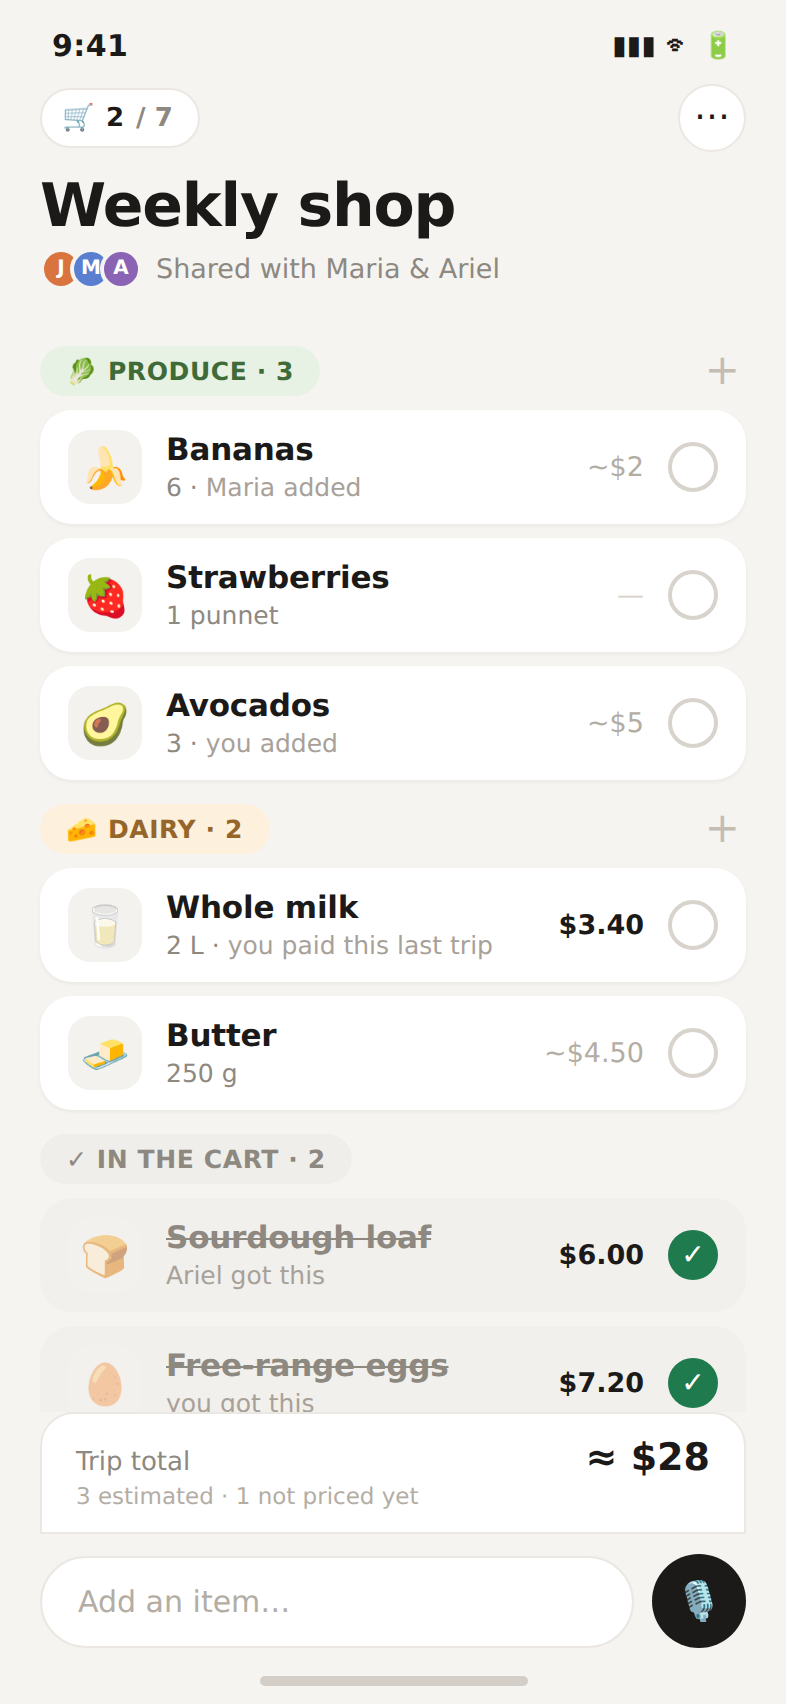
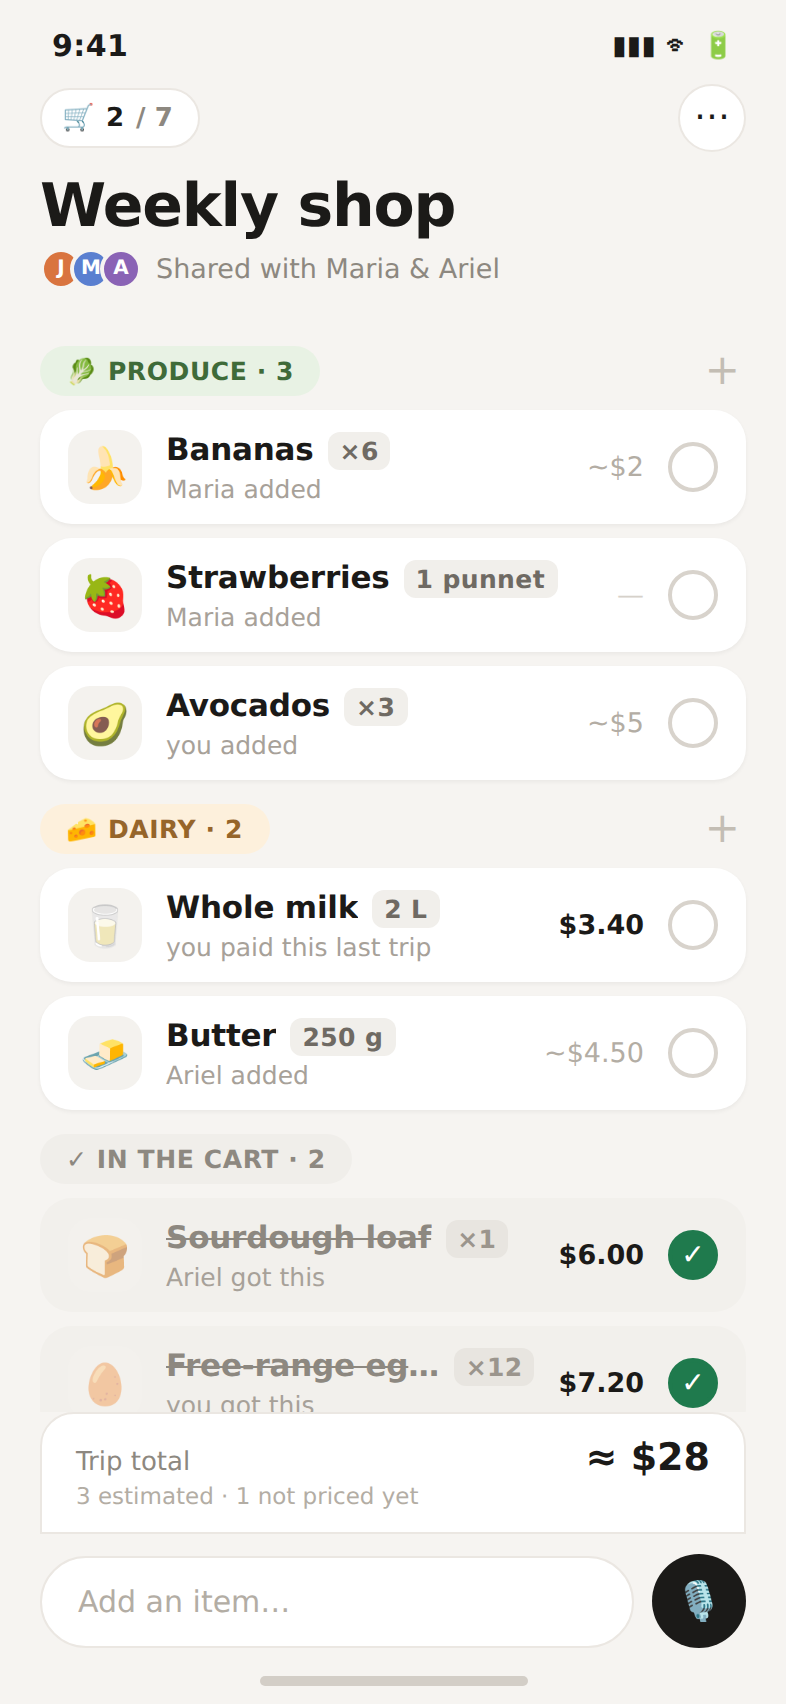
Promote quantity from metadata to the item name line
Quantity was sharing the grey subtitle with attribution, which put an
operational value (how many to pick up) at the same weight as a social one.
Move it to a chip on the name line, leaving attribution alone in the
subtitle, and keep the strikethrough on checked rows off the chip.

Claude-Session: https://claude.ai/code/session_01A8rNZTtwV3z7PEHs5sXCz9

diff --git a/design/mockups/list-screen.html b/design/mockups/list-screen.html
@@ -81,7 +81,14 @@
     display: grid; place-items: center; font-size: 20px; background: #f4f2ee;
   }
   .body { flex: 1; min-width: 0; }
-  .name { font-size: 15.5px; font-weight: 550; letter-spacing: -.1px; }
+  .name { font-size: 15.5px; font-weight: 550; letter-spacing: -.1px;
+    display: flex; align-items: baseline; gap: 7px; white-space: nowrap; }
+  .name .txt { overflow: hidden; text-overflow: ellipsis; min-width: 0; }
+  .qty {
+    font-size: 12.5px; font-weight: 650; color: #6f6a63;
+    background: #f1efeb; border-radius: 6px; padding: 2px 6px;
+    letter-spacing: .2px; flex: none;
+  }
   .meta { font-size: 12.5px; color: var(--muted); margin-top: 2px; }
   .meta .who { color: #a7a199; }
   /* estimated price: grey, tilde-prefixed, rounded. confirmed: solid ink. */
@@ -96,7 +103,9 @@
   }
   .circle.on::after { content: "✓"; color: #fff; font-size: 14px; font-weight: 700; }
   .row.checked { background: #f2f0ec; box-shadow: none; }
-  .row.checked .name { color: var(--muted); text-decoration: line-through; }
+  .row.checked .name { color: var(--muted); }
+  .row.checked .name .txt { text-decoration: line-through; }
+  .row.checked .qty { background: #e8e5e0; color: #9b958d; }
   .row.checked .tile { opacity: .5; }
 
   /* footer */
@@ -150,8 +159,8 @@
     <div class="row">
       <div class="tile">🍌</div>
       <div class="body">
-        <div class="name">Bananas</div>
-        <div class="meta">6 · <span class="who">Maria added</span></div>
+        <div class="name"><span class="txt">Bananas</span> <span class="qty">×6</span></div>
+        <div class="meta"><span class="who">Maria added</span></div>
       </div>
       <div class="price est">~$2</div>
       <div class="circle"></div>
@@ -159,8 +168,8 @@
     <div class="row">
       <div class="tile">🍓</div>
       <div class="body">
-        <div class="name">Strawberries</div>
-        <div class="meta">1 punnet</div>
+        <div class="name"><span class="txt">Strawberries</span> <span class="qty">1 punnet</span></div>
+        <div class="meta"><span class="who">Maria added</span></div>
       </div>
       <div class="price none">—</div>
       <div class="circle"></div>
@@ -168,8 +177,8 @@
     <div class="row">
       <div class="tile">🥑</div>
       <div class="body">
-        <div class="name">Avocados</div>
-        <div class="meta">3 · <span class="who">you added</span></div>
+        <div class="name"><span class="txt">Avocados</span> <span class="qty">×3</span></div>
+        <div class="meta"><span class="who">you added</span></div>
       </div>
       <div class="price est">~$5</div>
       <div class="circle"></div>
@@ -182,8 +191,8 @@
     <div class="row">
       <div class="tile">🥛</div>
       <div class="body">
-        <div class="name">Whole milk</div>
-        <div class="meta">2 L · <span class="who">you paid this last trip</span></div>
+        <div class="name"><span class="txt">Whole milk</span> <span class="qty">2 L</span></div>
+        <div class="meta"><span class="who">you paid this last trip</span></div>
       </div>
       <div class="price">$3.40</div>
       <div class="circle"></div>
@@ -191,8 +200,8 @@
     <div class="row">
       <div class="tile">🧈</div>
       <div class="body">
-        <div class="name">Butter</div>
-        <div class="meta">250 g</div>
+        <div class="name"><span class="txt">Butter</span> <span class="qty">250 g</span></div>
+        <div class="meta"><span class="who">Ariel added</span></div>
       </div>
       <div class="price est">~$4.50</div>
       <div class="circle"></div>
@@ -204,7 +213,7 @@
     <div class="row checked">
       <div class="tile">🍞</div>
       <div class="body">
-        <div class="name">Sourdough loaf</div>
+        <div class="name"><span class="txt">Sourdough loaf</span> <span class="qty">×1</span></div>
         <div class="meta"><span class="who">Ariel got this</span></div>
       </div>
       <div class="price">$6.00</div>
@@ -213,7 +222,7 @@
     <div class="row checked">
       <div class="tile">🥚</div>
       <div class="body">
-        <div class="name">Free-range eggs</div>
+        <div class="name"><span class="txt">Free-range eggs</span> <span class="qty">×12</span></div>
         <div class="meta"><span class="who">you got this</span></div>
       </div>
       <div class="price">$7.20</div>
